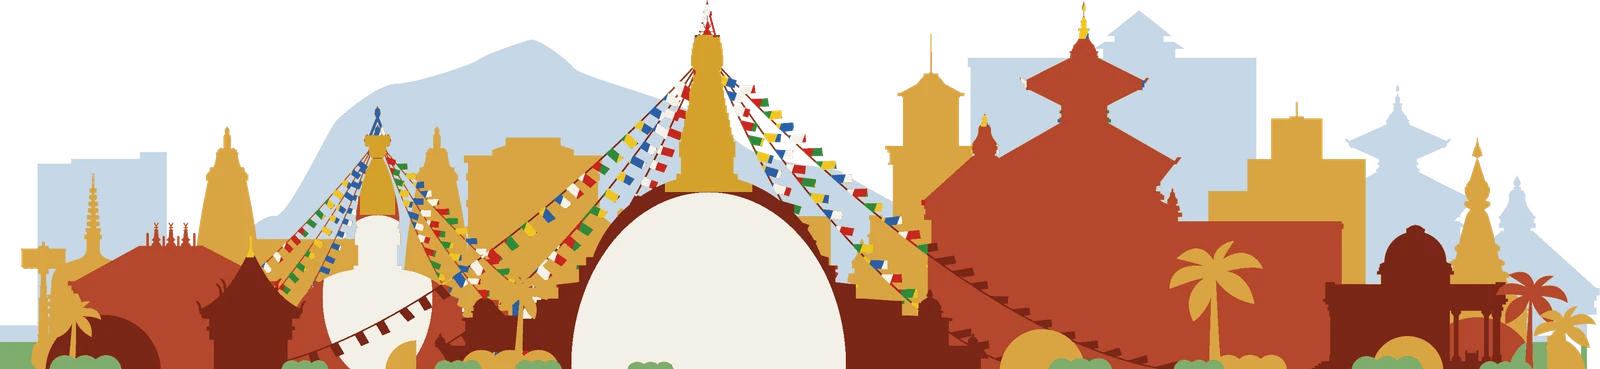
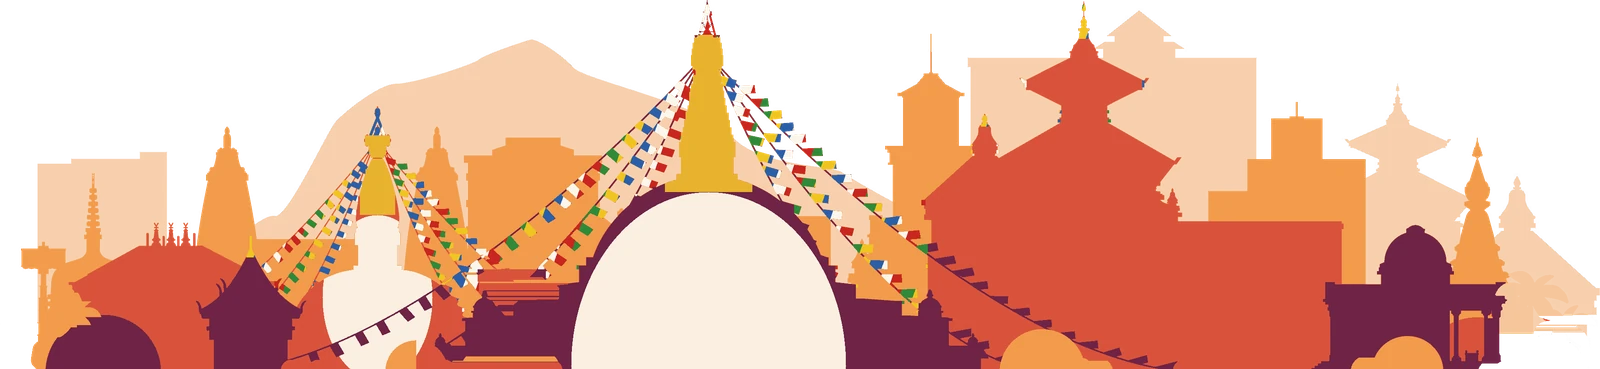
Sunset skyline without plants; Source opens beside the graph with a close button

diff --git a/index.html b/index.html
@@ -957,6 +957,11 @@ canvas.lungta-corner,.ktm{display:none}
 .hp-years{z-index:2}
 .hp-years span{background:var(--bg,#fff);padding-left:.15rem}
 .hp-sep{z-index:1}
+
+/* Source opens beside the graph, never over it */
+.hp-pop{left:calc(100% + .8rem)!important;right:auto!important;bottom:0!important;width:min(20rem,calc(100vw - 100% - 3rem))!important;z-index:30;padding-top:1.6rem!important}
+.hp-x-close{position:absolute;top:.35rem;right:.4rem;width:1.5rem;height:1.5rem;border:0;border-radius:50%;background:#1d1b18;color:#fff;font:.95rem/1 var(--text);cursor:pointer}
+.hp-x-close:hover{background:#b8322a}
 </style>
 <script data-goatcounter="https://prajwalkhanal.goatcounter.com/count"
         async src="//gc.zgo.at/count.js"></script>
@@ -1847,6 +1852,7 @@ canvas.lungta-corner,.ktm{display:none}
   <p class="hp-key">shaded: 10–90 % of the models · hover, or click to pin a year</p>
   <button class="hp-src" type="button" aria-expanded="false">Source</button>
   <div class="hp-pop" hidden>
+    <button class="hp-x-close" type="button" aria-label="Close">×</button>
     <p><b>Himalaya, 3 088–8 848 m</b>: the mean of six ERA5-Land points along the profile on the left, year by year, 1981–2024. Thin line: each year; thick line and shading: 9-year running mean, coloured from its coldest (1981) to its warmest (2024) value.</p>
     <p>Warming 1981–2024: +0.28 °C per decade here; +0.21 °C for the world, land and ocean (NASA GISTEMP v4): 1.3× the global average.</p>
     <p>Snow days: days with at least 5 cm of snow on the ground, ERA5-Land, mean of the four points without glacier (3 088–5 915 m).</p>
@@ -1938,6 +1944,8 @@ canvas.lungta-corner,.ktm{display:none}
     playing=setInterval(function(){y++; if(y>END){clearInterval(playing);playing=null;pb.textContent='▶ Play 1981–2050';pinned=true;show(END);return;} show(y);},115);});
   var src=box.querySelector('.hp-src'), pop=box.querySelector('.hp-pop');
   src.addEventListener('click',function(){pop.hidden=!pop.hidden;src.setAttribute('aria-expanded',!pop.hidden);});
+  pop.querySelector('.hp-x-close').addEventListener('click',function(){pop.hidden=true;src.setAttribute('aria-expanded',false);src.focus();});
+  addEventListener('keydown',function(e){if(e.key==='Escape'&&!pop.hidden){pop.hidden=true;src.setAttribute('aria-expanded',false);}});
   var foot=document.querySelector('footer');
   if(foot) new IntersectionObserver(function(es){box.classList.toggle('np-off',es[0].isIntersecting)},{threshold:.15}).observe(foot);
 })();
